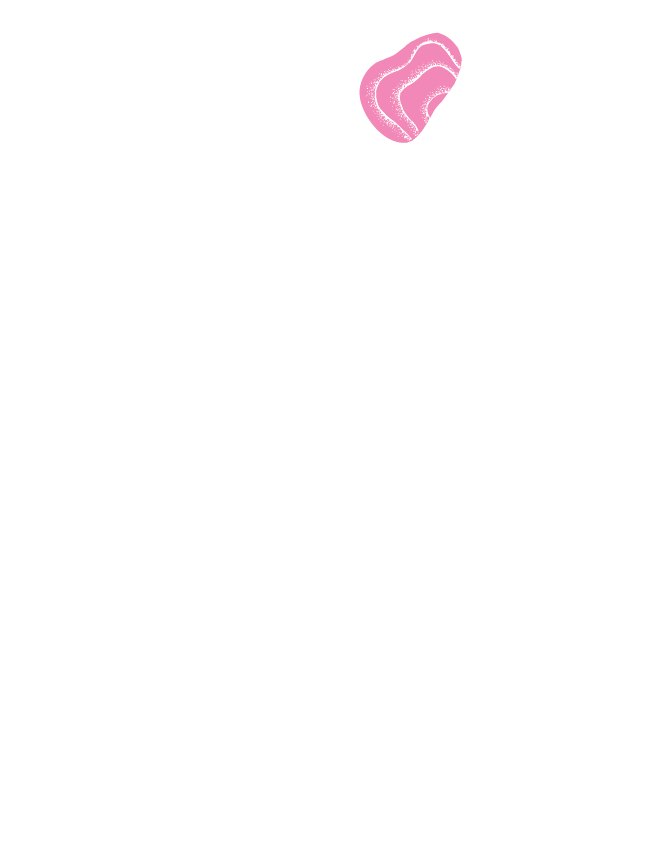
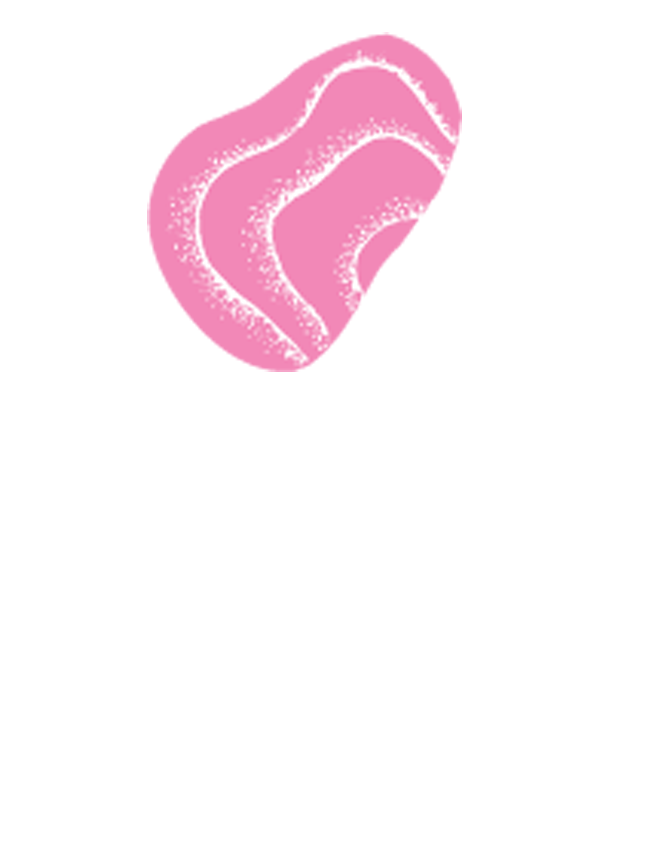
added css animations, resized images, fixed repeating loop

Changed region(s): [[0.2108, 0.0309, 0.6928, 0.4632]]

diff --git a/script.js b/script.js
@@ -24,11 +24,17 @@ function switchImages(){
   function loopImages(){
     setTimeout(function(){
         gallery.style.backgroundImage = "url(" + illustrations[i] + ")";
-        i++;
         if (i < illustrations.length){
           loopImages();
+          i++;
+          console.log(i);
         }
-    }, 2000);
+        else{
+          i = 0;
+          console.log(i);
+          loopImages();
+        }
+    }, 30000);
   }
   loopImages();
 };

diff --git a/stylesheet.css b/stylesheet.css
@@ -4,9 +4,20 @@ body{
 }
 #images{
   position: fixed;
+  top: 0;
+  margin: 10%;
   background-image: url("images/paintins-02.png");
   width: 100%;
   height: 100%;
   background-repeat: no-repeat;
   background-size: contain;
+  animation: pulse 5s alternate infinite;
+}
+@keyframes pulse{
+  0%{
+    transform: scale(1);
+  }
+  100%{
+    transform: scale(1.1);
+  }
 }
